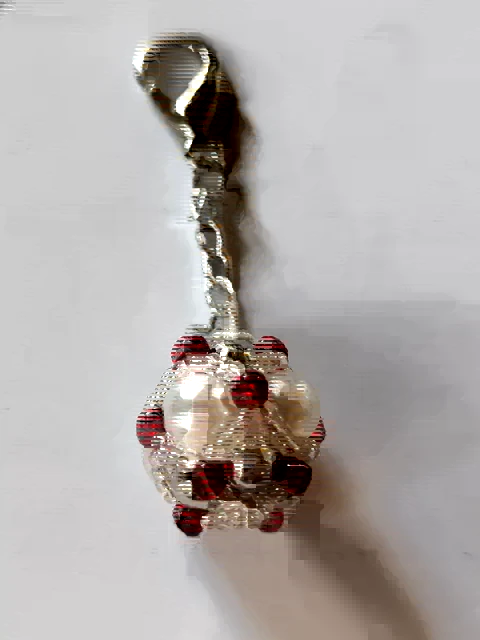
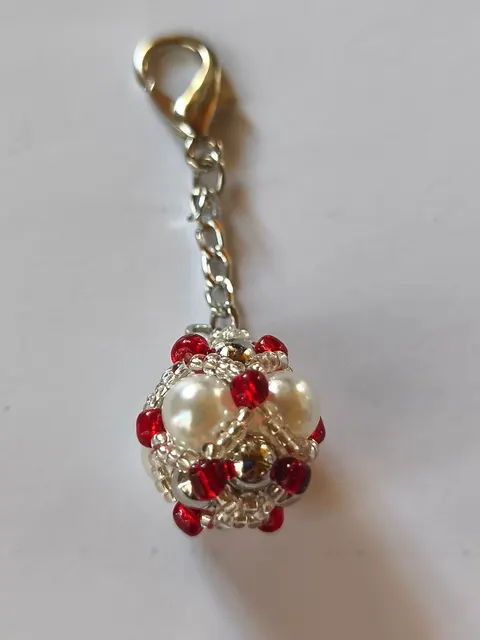
Recategorize keychains to jewellery and regenerate clean images
Change category accessories -> jewellery for JWL-001/002/003, update
SKUs in the files themselves, fix index.js imports, and drop the
now-unrelated relatedSkus cross-links on acc-001. Also replace the
corrupted webp images with clean ones re-encoded via node (see
previous commit for the bun/sharp corruption root cause).

diff --git a/src/lib/content/products/index.js b/src/lib/content/products/index.js
@@ -25,9 +25,9 @@ import { product as bead006 } from './bead-006.js';
 import { product as bead007 } from './bead-007.js';
 import { product as bead008 } from './bead-008.js';
 import { product as bead009 } from './bead-009.js';
-import { product as acc002 } from './acc-002.js';
-import { product as acc003 } from './acc-003.js';
-import { product as acc004 } from './acc-004.js';
+import { product as jwl001 } from './jwl-001.js';
+import { product as jwl002 } from './jwl-002.js';
+import { product as jwl003 } from './jwl-003.js';
 import { product as knit001 } from './knit-001.js';
 import { product as knit002 } from './knit-002.js';
 import { product as knit003 } from './knit-003.js';
@@ -63,9 +63,9 @@ export const rawProducts = [
 	bead007,
 	bead008,
 	bead009,
-	acc002,
-	acc003,
-	acc004,
+	jwl001,
+	jwl002,
+	jwl003,
 	knit001,
 	knit002,
 	knit003,

diff --git a/src/lib/content/products/jwl-002.js b/src/lib/content/products/jwl-002.js
@@ -1,8 +1,8 @@
 /** @type {import('$lib/schemas/product.js').Product} */
 export const product = {
-	sku: 'ACC-003',
+	sku: 'JWL-002',
 	slug: 'silver-accented-beaded-ball-keychain',
-	category: 'accessories',
+	category: 'jewellery',
 	status: 'available',
 
 	title: {
@@ -41,5 +41,5 @@ export const product = {
 		ru: 'Можно заказать в другом сочетании цветов'
 	},
 
-	relatedSkus: ['ACC-002', 'ACC-004', 'ACC-001']
+	relatedSkus: ['JWL-001', 'JWL-003']
 };

diff --git a/src/lib/content/products/jwl-003.js b/src/lib/content/products/jwl-003.js
@@ -1,8 +1,8 @@
 /** @type {import('$lib/schemas/product.js').Product} */
 export const product = {
-	sku: 'ACC-004',
+	sku: 'JWL-003',
 	slug: 'silver-gunmetal-beaded-ball-keychain',
-	category: 'accessories',
+	category: 'jewellery',
 	status: 'available',
 
 	title: {
@@ -41,5 +41,5 @@ export const product = {
 		ru: 'Можно заказать в другом сочетании цветов'
 	},
 
-	relatedSkus: ['ACC-002', 'ACC-003', 'ACC-001']
+	relatedSkus: ['JWL-001', 'JWL-002']
 };

diff --git a/src/lib/content/products/jwl-001.js b/src/lib/content/products/jwl-001.js
@@ -1,8 +1,8 @@
 /** @type {import('$lib/schemas/product.js').Product} */
 export const product = {
-	sku: 'ACC-002',
+	sku: 'JWL-001',
 	slug: 'gold-accented-beaded-ball-keychain',
-	category: 'accessories',
+	category: 'jewellery',
 	status: 'available',
 
 	title: {
@@ -51,5 +51,5 @@ export const product = {
 		ru: 'Можно заказать в другом сочетании цветов'
 	},
 
-	relatedSkus: ['ACC-003', 'ACC-004', 'ACC-001']
+	relatedSkus: ['JWL-002', 'JWL-003']
 };

diff --git a/src/lib/content/products/acc-001.js b/src/lib/content/products/acc-001.js
@@ -41,5 +41,5 @@ export const product = {
 		ru: 'Можно заказать в другом цвете'
 	},
 
-	relatedSkus: ['ACC-002', 'ACC-003', 'ACC-004']
+	relatedSkus: []
 };
